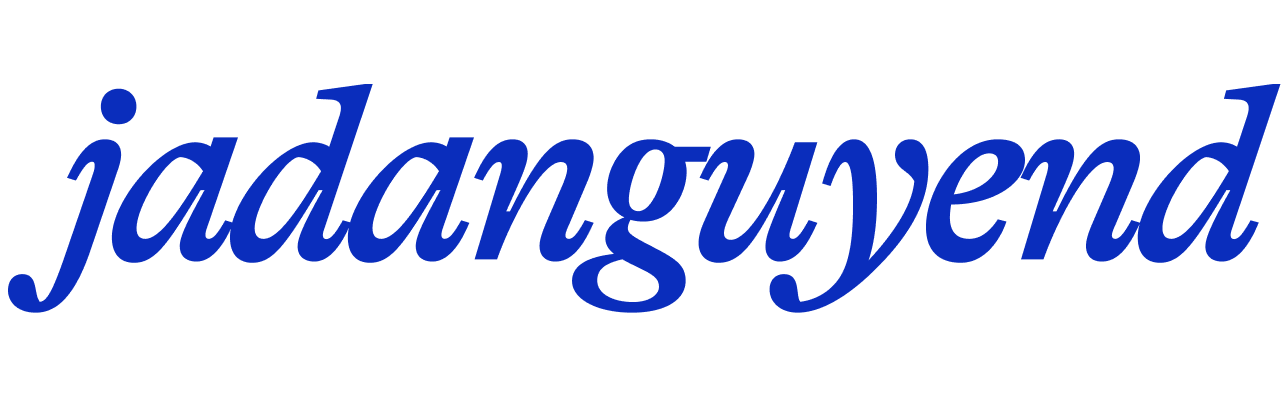
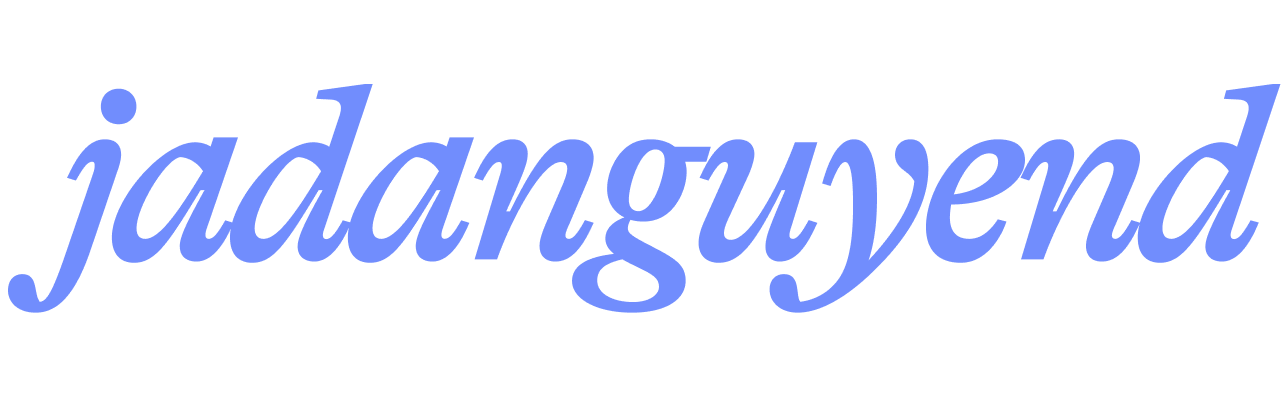
minor changes to project section - still needs to figure out global margin

Changed region(s): [[0.0, 0.2116, 0.9938, 0.7859], [0.0621, 0.2116, 0.1242, 0.3023]]

diff --git a/src/components/ProjectSection.jsx b/src/components/ProjectSection.jsx
@@ -8,19 +8,22 @@ import project3Img from "../assets/project3.png";
 const projects = [
   {
     title: "Nomo",
-    description: "Helping individuals address food waste by through social accountability and personal ownership",
+    description:
+      "Helping individuals address food waste by through social accountability and personal ownership",
     tags: ["Redesign", "UI/UX"],
     image: project1Img,
   },
   {
     title: "Beesi",
-    description: "Enabling owners to better promote their business and navigate social media algorithms",
+    description:
+      "Enabling owners to better promote their business and navigate social media algorithms",
     tags: ["B2B Design", "Web App"],
     image: project2Img,
   },
   {
     title: "VietQ",
-    description: "A website for the Vietnamese queer community in Seattle to improve usability",
+    description:
+      "A website for the Vietnamese queer community in Seattle to improve usability",
     tags: ["Mobile App", "Redesign"],
     image: project3Img,
   },
@@ -28,14 +31,15 @@ const projects = [
 
 export default function ProjectsSection() {
   return (
-    <section className="px-12 md:px-24 py-12 grid gap-6">
+    <section className="px-12 md:px-24 py-24 grid gap-6">
+      {/* Existing project cards */}
       {projects.map((project, index) => (
         <motion.div
           key={index}
-          className="group grid grid-cols-12 gap-x-10 bg-white dark:bg-neutral-900 rounded-[16px] border border-black dark:border-gray-700 p-4 md:p-5 transition-colors duration-300 hover:bg-black dark:hover:bg-gray-800"
+          className="group grid grid-cols-12 gap-x-10 bg-white dark:bg-neutral-900 rounded-[16px] border border-#AAAAAA dark:border-gray-700 p-4 md:p-5 transition-colors duration-300 hover:bg-black dark:hover:bg-gray-800"
           whileHover={{ scale: 1 }}
         >
-          {/* Left side: Text */}
+          {/* Left */}
           <div className="col-span-12 md:col-span-4 flex flex-col gap-2">
             <h2 className="text-2xl font-heading font-medium italic transition-colors duration-300 text-black dark:text-white group-hover:text-white">
               {project.title}
@@ -55,7 +59,7 @@ export default function ProjectsSection() {
             </div>
           </div>
 
-          {/* Right side: Image */}
+          {/* Right */}
           <div className="col-span-12 md:col-span-8 mt-2 md:mt-0">
             <img
               src={project.image}
@@ -65,6 +69,58 @@ export default function ProjectsSection() {
           </div>
         </motion.div>
       ))}
+
+      {/* Empty / CTA Project Card */}
+      <motion.div
+        className="
+          group grid grid-cols-12
+          bg-white dark:bg-neutral-900
+          rounded-[16px]
+          border-2 border-dashed border-grey-300 dark:border-gray-700
+          transition-colors duration-300
+          hover:bg-gray-100 dark:hover:bg-neutral-800
+        "
+        whileHover={{ scale: 1 }}
+      >
+        <div
+          className="
+            col-span-12
+            flex flex-col items-center justify-center gap-4
+            h-72 md:h-96
+            text-center
+            p-6
+          "
+        >
+
+          {/* Text */}
+          <p
+            className="
+              text-lg md:text-xl
+              font-satoshi
+              text-black dark:text-white
+              transition-colors duration-300
+            "
+          >
+            Let’s create something{" "}
+            <span
+              className="font-heading text-[#183ED8]"
+              style={{ fontStyle: "italic", fontWeight: 500 }}
+            >
+              great
+            </span>{" "}
+            together!
+          </p>
+
+          {/* Reused Button */}
+          <a
+            href="/contact"
+            className="btn-primary"
+          >
+            Connect
+          </a>
+        </div>
+      </motion.div>
+
     </section>
   );
 }

diff --git a/src/pages/Home.jsx b/src/pages/Home.jsx
@@ -11,7 +11,6 @@ import ticktickImg from "../assets/ticktick.png";
 import retroImg from "../assets/retro.png";
 import arcImg from "../assets/arc.png";
 import ondittoImg from "../assets/onditto.png";
-import mercedesImg from "../assets/mercedes.png";
 import wiseImg from "../assets/wise.png";
 import baseImg from "../assets/base.png";
 
@@ -44,10 +43,7 @@ export default function Home() {
         { href: "https://wise.design/", img: wiseImg },
         { href: "https://base.uber.com/6d2425e9f/p/93825b-welcome-to-base", img: baseImg },
       ] },
-    { text: "geeking out over F1 car liveries", 
-      links: [
-        { href: "https://www.mercedesamgf1.com/cars/2023", img: mercedesImg },
-      ] },
+    { text: "geeking out over F1 car liveries", links: [] },
   ];
 
   const [index, setIndex] = useState(0);
@@ -62,7 +58,7 @@ export default function Home() {
   return (
     <Layout footer={<Footer />}>
       {/* Hero */}
-      <section className="relative min-h-[80vh] px-6 md:px-24 py-12 flex flex-col justify-between">
+      <section className="relative min-h-[80vh] px-6 md:px-24 py-4 flex flex-col justify-between">
         {/* Top meta */}
         <div className="flex gap-3">
           <div className="meta-pill bg-white text-gray-500 border-gray-200
@@ -118,7 +114,7 @@ export default function Home() {
             className="text-sm md:text-base text-gray-500 flex items-center gap-1"
             initial={{ opacity: 0, y: 16 }}
             animate={{ opacity: 1, y: 0 }}
-            transition={{ duration: 0.8, delay: 0.5 }}
+            transition={{ duration: 0.8, delay: 0.8 }}
           >
             She's probably —{" "}
 

diff --git a/src/components/Layout.jsx b/src/components/Layout.jsx
@@ -1,17 +1,26 @@
-import { useEffect } from "react";
+import { useEffect, useState } from "react";
 import { motion, useMotionValue, useTransform } from "framer-motion";
 
 export default function Layout({ children, footer }) {
   const scrollY = useMotionValue(0);
+  const [docHeight, setDocHeight] = useState(0);
 
   useEffect(() => {
+    setDocHeight(document.body.scrollHeight - window.innerHeight);
+
     const handleScroll = () => scrollY.set(window.scrollY);
     window.addEventListener("scroll", handleScroll);
+    window.addEventListener("resize", () => setDocHeight(document.body.scrollHeight - window.innerHeight));
+
     return () => window.removeEventListener("scroll", handleScroll);
   }, [scrollY]);
 
-  const scale = useTransform(scrollY, [0, 1000, 1600], [1, 1, 0.95]);
-  const radius = useTransform(scrollY, [0, 1000, 1600], [0, 0, 32]);
+  // Scroll percentage from 0 to 1
+  const scrollPercent = useTransform(scrollY, [0, docHeight || 1], [0, 1]);
+
+  // Shrink only after 10% scroll, finish at 50% scroll
+  const scale = useTransform(scrollPercent, [0.7, 0.9], [1, 0.95]);
+  const radius = useTransform(scrollPercent, [0.7, 0.9], [0, 32]);
 
   return (
     <div className="relative min-h-screen bg-[#183ED8]">

diff --git a/src/components/Footer.jsx b/src/components/Footer.jsx
@@ -11,7 +11,13 @@ export default function Footer() {
     : null;
 
   return (
-    <footer className="px-12 md:px-24 pt-10 pb-16 flex flex-col gap-6 text-white">
+    <footer
+      className="
+        px-12 md:px-24 pt-10 pb-16 flex flex-col gap-6
+        text-[#718DFD] dark:text-[#718DFD]
+      "
+      style={{ fontWeight: 500 }}
+    >
       {/* Top Section */}
       <div className="flex flex-col md:flex-row justify-between items-center">
         <span className="text-sm md:text-base">©2025 Jada Nguyen</span>
@@ -24,9 +30,9 @@ export default function Footer() {
       </div>
 
       {/* Divider */}
-      <hr className="border-white/30" />
+      <hr className="border-current opacity-30" />
 
-      {/* Bottom Section: Full width image */}
+      {/* Bottom Section */}
       <div>
         <img
           src={footerImage}

diff --git a/src/index.css b/src/index.css
@@ -233,13 +233,13 @@ body {
   padding: 12px 20px;
   background: #000000;
   color: #ffffff;
-  border-radius: 8px;
+  border-radius: 24px;
   font-weight: 500;
   transition: opacity 0.2s ease;
 }
 
 .btn-primary:hover {
-  opacity: 0.85;
+  opacity: 0.75;
 }
 
 .btn-primary svg {
@@ -255,7 +255,7 @@ body {
   background: #ffffff;
   color: #000000;
   border: 1px solid #000000;
-  border-radius: 8px;
+  border-radius: 24px;
   font-weight: 500;
   transition: background 0.2s ease, color 0.2s ease;
 }

diff --git a/dist/index.html b/dist/index.html
@@ -7,7 +7,7 @@
     
     <!-- Favicon -->
     <link rel="icon" type="image/png" href="/portfolio/Favicon.png" />
-    <script type="module" crossorigin src="/portfolio/assets/index-ClAtLNqD.js"></script>
+    <script type="module" crossorigin src="/portfolio/assets/index-BEkOKdw_.js"></script>
     <link rel="stylesheet" crossorigin href="/portfolio/assets/index-BCgoiPXU.css">
   </head>
   <body>

diff --git a/src/components/Navbar.jsx b/src/components/Navbar.jsx
@@ -33,7 +33,7 @@ export default function Navbar() {
         will-change-transform
       "
     >
-      <div className="w-full px-6 md:px-24 py-6 flex justify-between items-center">
+      <div className="w-full px-6 md:px-24 py-3 flex justify-between items-center">
         {/* Left */}
         <Link to="/" className="nav-link">
           Home
